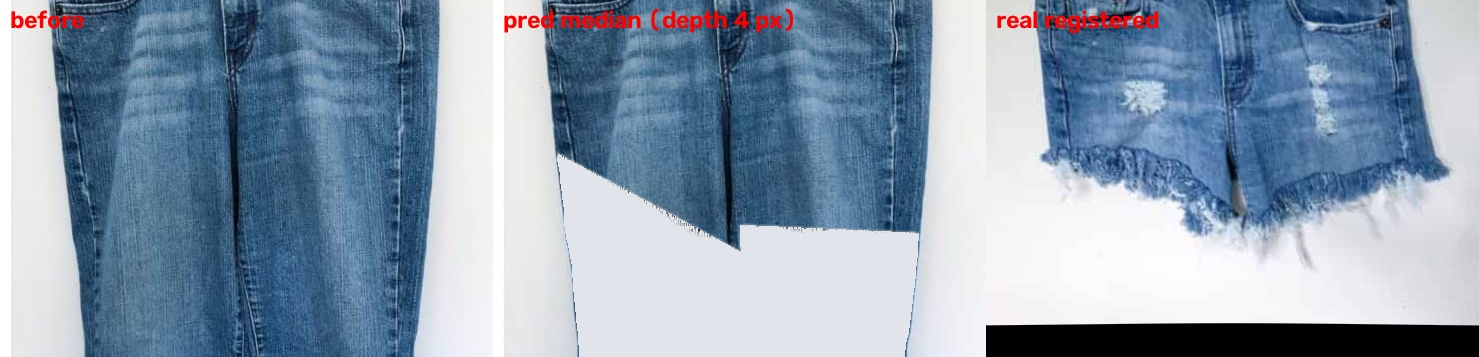
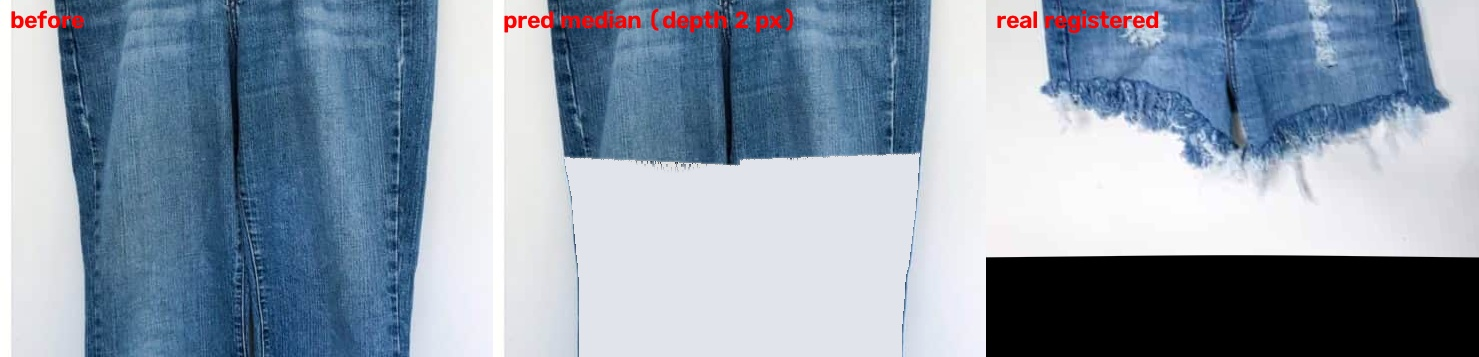
CLIP gate demoted to info; the step log records it.

diff --git a/tools/run_pair.py b/tools/run_pair.py
@@ -60,7 +60,7 @@ sane(bmask, "before"); sane(amask, "after")
 try:
     from denimtwin.seg.clipgate import whole_garment_probability
     pw = whole_garment_probability(bf)
-    if pw is not None and pw < 0.35: FAIL(f"before image does not look like a whole garment with waistband/pockets (CLIP p={pw:.2f})")
+    print(f"clip whole-garment p={pw}")   # informational only: CLIP scores a hanging whole pair 0.27 and a legs-only crop 0.36 (EXP_0005) — not a usable gate
 except SystemExit: raise
 except Exception as e: print("clip gate skipped:", e)
 lmb_auto, cb = landmarks_from_mask(bmask); lma_auto, ca = landmarks_from_mask(amask)

diff --git a/notes/weekly/2026-W35.md b/notes/weekly/2026-W35.md
@@ -1,0 +1,113 @@
+# Week 35 — 2026-08-29
+
+## Commits this week
+- 2026-08-29 report_pairs: skip rejected runs, None-safe; mask-based fringe profile distance
+- 2026-08-29 CLIP whole-garment gate in run_pair; report_pairs.py aggregate with null deltas
+- 2026-08-29 EXP_0004: stop-tuning note
+- 2026-08-29 hemfit robustness (hip-midpoint leg split, mask fallback, min points); keep coarse-mask landmarks after refinement
+- 2026-08-29 rawedge_v1 streaks follow the cut's hanging direction; run_pair: 1% trim allowed, landmarks recomputed after mask refinement
+- 2026-08-29 Batch refresh after review 2; EXP_0005 update (fringe IoU honest at 0.07)
+- 2026-08-29 Review 2 fixes (12): cut-invariant landmarks, fringe/hem/cut metrics, band-to-cut distance, collage guard, licence gate, ingest cleanup; reviewer tests adopted
+- 2026-08-29 EXP_0004: registration quality notes
+- 2026-08-29 register_feat: affine-RANSAC inlier pass on SIFT matches
+- 2026-08-29 register_feat: min-separation filter, landmark-only held-out residual; test
+- 2026-08-29 Feature-augmented registration (SIFT matches consistent with landmark warp); pair1 held-out residual 158 -> 48 px
+- 2026-08-29 Leave-one-landmark-out registration residual (pair1: 157px, exposes underdetermined TPS on shorts); lighting normalisation on kept region before scoring; tests
+- 2026-08-29 EXP_0005: found-pair yield (1/14 usable), funnel and read
+- 2026-08-29 run_pair: score against the split (used) images, not the original collage paths
+- 2026-08-29 run_pair: waistband gate at widest top row
+- 2026-08-29 run_pair: collage splitting (side-by-side/stacked), input sanity gates (edge contact, size, waistband, degenerate cut, registration overlap); batch summary
+- 2026-08-29 Pair validator (CLIP roles, 5/14 usable); batch runner over usable pages; finder routine now requires a vision check
+- 2026-08-29 EXP_0004: pair1 fully automatic
+- 2026-08-29 Coarse garment segmentation (candidate selection, border/area priors); shorts-vs-jeans rule for crotch; test tolerance
+- 2026-08-29 Mask-based landmark heuristic (autolm) + tests; run_pair.py: one-command pair pipeline (auto landmarks, hem fit, fringe presets, scoring, panel)
+- 2026-08-28 EXP_0003 update 3: hem-zone restriction regression noted
+- 2026-08-28 hemfit: restrict fringe class to hem zone
+- 2026-08-28 Per-leg hem fit (image-space angled cut, colour-based fabric/fringe split, fringe depth); tests; EXP_0003 update 2
+- 2026-08-28 Fix v1 depth test to count fringe-zone pixels only
+- 2026-08-28 Raw edge v1: fringe as density band (depth 5-40mm); compare.py scores the fringe zone (pred mask incl. fringe, two-sided edge band, fringe IoU); EXP_0003 update
+- 2026-08-28 EXP_0003: first found pair end-to-end (honest negative result on fray); angled cut primitive + tests
+- 2026-08-28 pairs: seed 14 tutorial pages (95 images, 4 with after-wash)
+- 2026-08-28 Docs: pair finder in agents README; online-data pointers in README
+- 2026-08-28 Crowd-sourced pairs: GitHub issue form, ingest script, contributor guide
+- 2026-08-28 Charter amendment: online-only data variant; tutorial-pair manifest tool
+- 2026-08-28 null_baselines: use real/removed masks for silhouette instead of gray>0
+- 2026-08-28 Registration of real after-captures into the before frame (TPS on surviving landmarks) + compare.py scoring CLI with null baselines; test
+- 2026-08-28 EXP_0002: raw-edge v0 qualitative note + panel
+- 2026-08-28 Procedural raw edge v0 (2D baseline): jagged edge, abraded band, hanging weft threads; conservative/median/aggressive presets; tests
+- 2026-08-28 Agents README: routine IDs
+- 2026-08-28 Agent support: sentinel, null-baseline enforcer, protocol audit, scope check, weekly scribe, arXiv watch, blinded judge, calibration audit, capture-QA watcher, harvest curator, interview coder; launchd plists; agents README
+- 2026-08-28 Fix cut-position test: check boundary at leg columns against the map (tilted line), keep loose inseam check
+- 2026-08-28 Review fixes: true CIE76 dE, exact TPS maps, cut of out-of-raster pixels, SSIM leak, location-checked feature retention, Otsu/Lab foreground, repo-relative tool paths, SAM fallback, Openverse page_size + license normalisation + atomic manifest; schema conventions + strictness; protocol cut definition/measurement/fray/offcut clarifications
+- 2026-08-28 SAM segmentation prompted from landmarks (box + positive/negative points); baseline uses it by default
+- 2026-08-28 Capture checker: exposure stats on garment pixels only; cutout-background flag; foreground-size check; tests
+- 2026-08-28 Harvester for CC-licensed jeans images (Openverse + Commons) with manifest
+- 2026-08-28 Protocol §7: offcut swatches; Evisu wash decision
+- 2026-08-28 Fill measurements: Our Legacy from retailer size chart; Evisu tag + photo-proportion estimate
+- 2026-08-28 Web-verified specs: Our Legacy Third Cut Digital Denim Print (100% cotton, printed); Evisu size-code note
+- 2026-08-28 Register DENIM_0001 (Evisu) and DENIM_0002 (Our Legacy) from owner photos + labels
+- 2026-08-28 EXP_0001: listing-photo feasibility; seed GrabCut from outline polygon
+- 2026-08-28 Manual landmark annotator and baseline runner for real photos
+- 2026-08-28 Literature map (13 verified papers, component mapping, gaps)
+- 2026-08-28 Canonical 2D garment space (TPS on landmarks), 2D cut baseline, tests
+- 2026-08-28 Customer discovery interview guide and log
+- 2026-08-28 Evaluation metrics (§6): geometry, identity preservation, fray, uncertainty; tests
+- 2026-08-28 Widen board exclusion pad
+- 2026-08-28 Capture subsystem: ChArUco board generator, board detection + metric scale, capture-quality checker
+- 2026-08-28 Pilot acquisition list and auxiliary data note
+- 2026-08-28 Add roadmap summary
+- 2026-08-28 Phase 0: project skeleton, charter, protocol draft, schema, tools
+
+## Experiments on record
+- EXP_0001_listing-photos
+- EXP_0002_rawedge_v0
+- EXP_0003_first_found_pair
+- EXP_0004_auto_pipeline_pair1
+- EXP_0005_found_pair_yield
+
+## Sentinel
+```
+manifest: 788 records checked
+records: 2 (0 locked)
+sentinel: OK
+```
+## Protocol audit
+```
+soft: 14 unfilled [FILL] fields in PROTOCOL.md: `[FILL: N standard filler towels]`, `[FILL: brand]`, `[FILL: fabric shears model]`, `[FILL: make/model, location]`, `[FILL: make/model]`, `[FILL: model/setting]`, `[FILL: name]`, `[FILL: phone model]`
+soft: DENIM_0001: waist_cm=97.0 has no measurement_readings (source=mixed)
+soft: DENIM_0001: front_rise_cm=33.0 has no measurement_readings (source=mixed)
+soft: DENIM_0001: original_inseam_cm=76.2 has no measurement_readings (source=mixed)
+soft: DENIM_0001: leg_opening_cm=60.0 has no measurement_readings (source=mixed)
+soft: DENIM_0002: waist_cm=96.5 has no measurement_readings (source=web_size_chart)
+soft: DENIM_0002: front_rise_cm=33.7 has no measurement_readings (source=web_size_chart)
+soft: DENIM_0002: original_inseam_cm=76.2 has no measurement_readings (source=web_size_chart)
+soft: DENIM_0002: leg_opening_cm=52.0 has no measurement_readings (source=web_size_chart)
+soft: DENIM_0002: thigh_cm=36.2 has no measurement_readings (source=web_size_chart)
+```
+## Scope check
+```
+gates passed: ['gate_0']
+scope: OK
+```
+
+## Review questions
+- **What measurable uncertainty did we reduce?** Whether the 2D pipeline can reproduce a real cut automatically:
+  yes on the one usable found pair (sil IoU ~0.8–0.88 vs 0.35 no-op). Whether v0/v1 fray rendering predicts a real
+  fringe: no — indistinguishable from crop-only at found-image resolution (fringe IoU 0.07). Whether found tutorial
+  pairs are a viable data source: mostly no (1/14 usable).
+- **Which assumption failed?** (1) That tutorial pages give paired whole-garment photos — most are crops/worn/macros.
+  (2) That identity metrics were informative — a no-op aced them until real after-captures + null baselines existed.
+  (3) That an in-sample TPS residual meant anything (leave-one-out: 158 px). (4) That cloud routines would run —
+  every run stalls after "Claude Code process started", including a no-tool smoke test.
+- **Physical matching improved, or only attractiveness?** Cut geometry: physical matching (measured). Fringe: only
+  attractiveness so far; the honest fringe IoU is 0.07.
+- **Next experiment tests one hypothesis?** Yes: "with ≥5 usable pairs, a fringe-depth/coverage model fitted on
+  after-wash hems beats crop-only on fringe IoU and profile distance on held-out pairs."
+- **Reproducible?** 44 tests; run_pair.py is one command per pair; batch + report scripts; pair images are research-use
+  only and not redistributed. Not yet verified on a fresh machine (repro runner never ran).
+- **Scope expanding without evidence?** No 3D/mesh/learned work. Online-only variant is a charter amendment (owner
+  decision) that narrows the claim. Scope check: gate_0 only.
+
+## Next action
+Get to ≥5 usable pairs (finder with vision check + contribution form), then fit the fringe model and evaluate
+held-out; until then, no heuristic tuning.

diff --git a/experiments/pairs/4bfef03bd7/NOTE.md b/experiments/pairs/4bfef03bd7/NOTE.md
@@ -1,3 +1,16 @@
-# PAIR — rejected
+# PAIR — auto pipeline
 
-before image does not look like a whole garment with waistband/pockets (CLIP p=0.27)
+before: /Users/jefferyhuang/denim-twin/data/external/pair_images/4bfef03bd7_before_051879ca.jpeg collage split (side-by-side) at x=503, kept left
+after: /Users/jefferyhuang/denim-twin/data/external/pair_images/4bfef03bd7_after_wash_44ffba7e.jpeg collage split (stacked) at y=512, kept top
+scale: UNKNOWN (1.0 placeholder; mm values are px)
+landmarks: auto / auto (crotch: prior_legs_touching / gap)
+hem fit: left: angle 2.6°, depth 1, right: angle -2.0°, depth 4
+registration residual (leave-one-landmark-out): 11.10px
+
+| system | sil IoU | chamfer | edge ΔE | fringe IoU |
+|---|---|---|---|---|
+| pred conservative | 0.794 | 24.8 | 22.5 | 0.017 |
+| pred median | 0.794 | 25.0 | 22.5 | 0.032 |
+| pred aggressive | 0.793 | 25.5 | 22.5 | 0.041 |
+| null:no-op | 0.345 | 458.2 | 24.9 | 0.002 |
+| null:crop-only | 0.795 | 24.6 | 22.7 | 0.000 |

diff --git a/experiments/pairs/SUMMARY.md b/experiments/pairs/SUMMARY.md
@@ -5,5 +5,5 @@
 | b630a78c19 | How To Make Jeans Into Shorts The Easy W | after_cut | ok | 0.88 / 0.88 / 0.73 | 58 / 60 | 13.7 / 13.7 | 0.10 / 0.11 |
 | 660bef67bf | Cómo hacer shorts con jeans viejos | after_cut | FAIL: REJECT: after: garment touches the frame edge (cropped photo | | | | |
 | 85d48013a2 | Tutorial: Aus Lang mach Kurz – Jeanshose | after_cut | FAIL: REJECT: after: garment touches the frame edge (cropped photo | | | | |
-| 4bfef03bd7 | DIY Denim Shorts | Thrifted Jeans Into S | after_wash | FAIL: REJECT: before image does not look like a whole garment with | | | | |
+| 4bfef03bd7 | DIY Denim Shorts | Thrifted Jeans Into S | after_wash | ok | 0.79 / 0.79 / 0.35 | 25 / 25 | 22.5 / 22.7 | 0.03 / 0.00 |
 | ee4bf13a3c | Magnolia Mamas: Fashion Fix: DIY Distres | after_wash | FAIL: REJECT: before: garment touches the frame edge (cropped phot | | | | |
